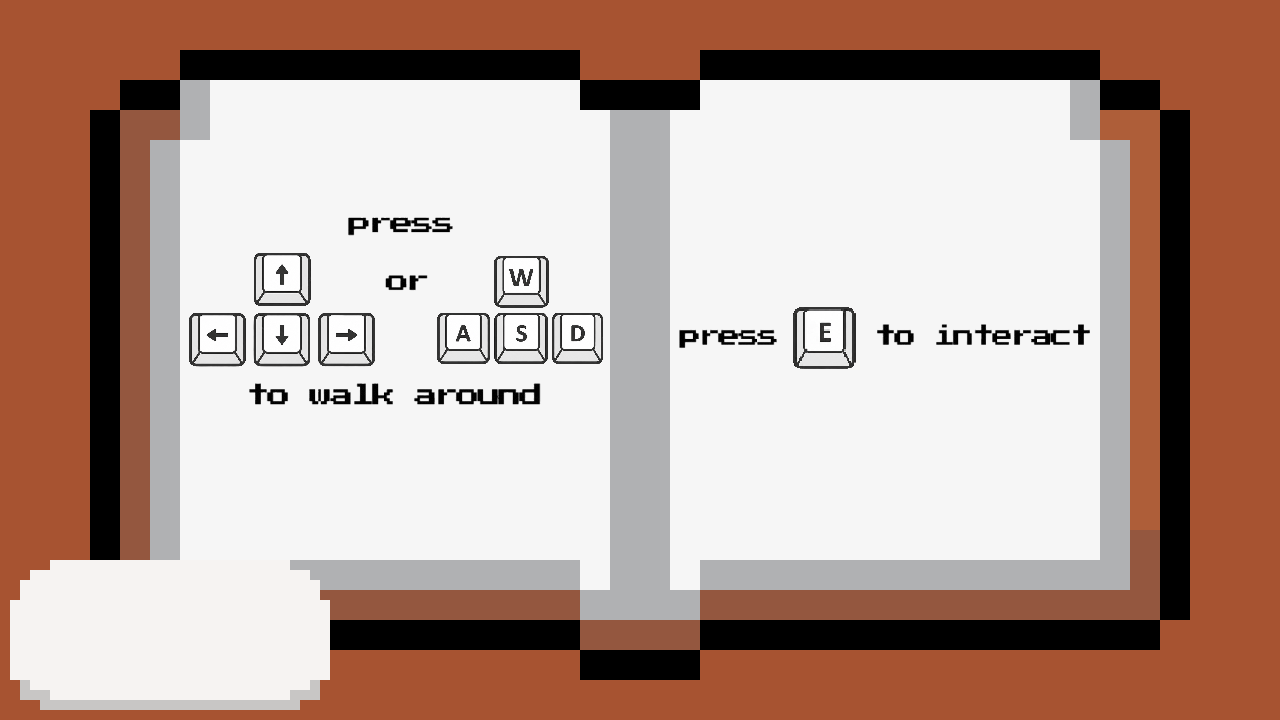
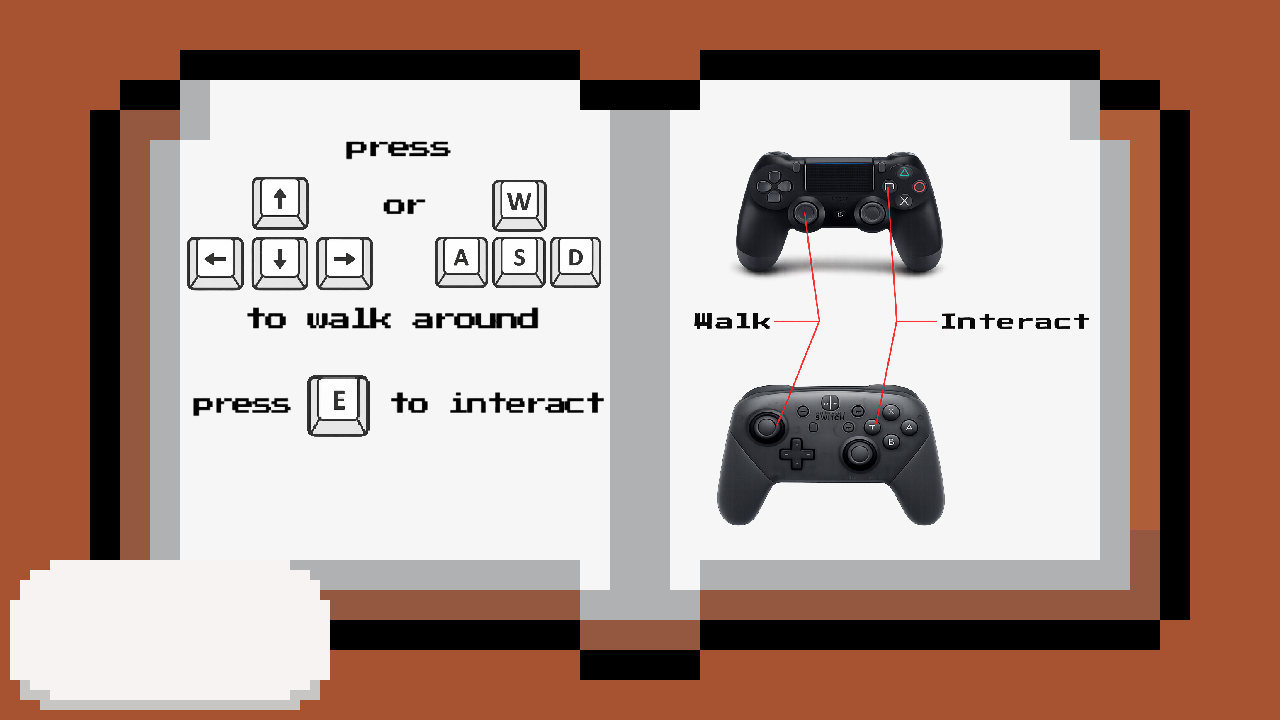
controler instructies added

diff --git a/src/js/classes/gameobjects/textbox.js b/src/js/classes/gameobjects/textbox.js
@@ -12,13 +12,13 @@ export class Textbox extends Actor {
       x: -300,
       y: -50,
       text: initialText,
-      scale: new Vector(2,2),
+      scale: new Vector(2, 2),
     });
     this.addChild(this.textLabel);
 
     this.continueLabel = new Label({
       color: Color.Black,
-      text: `press space to continue`,
+      text: `press the spacebar or the "B" button to continue`,
       x: 150,
       y: 30,
       scale: new Vector(2, 2),